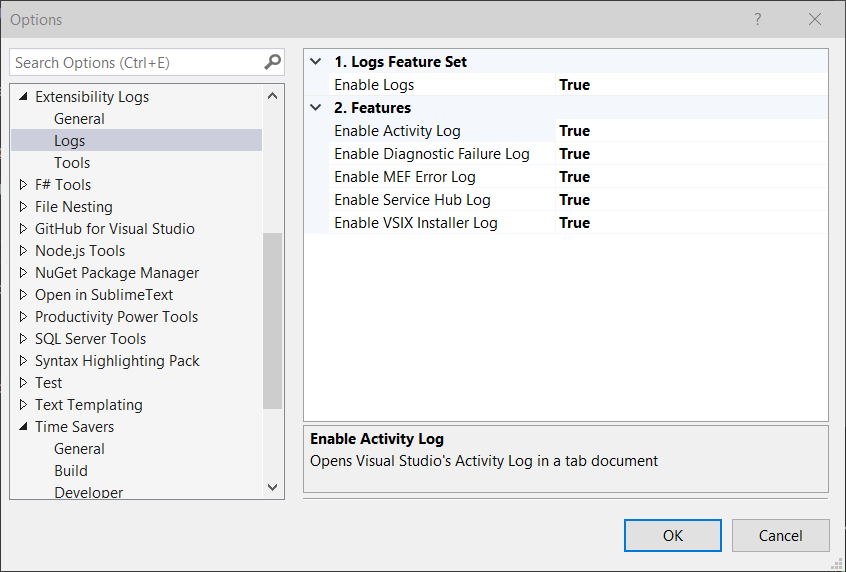
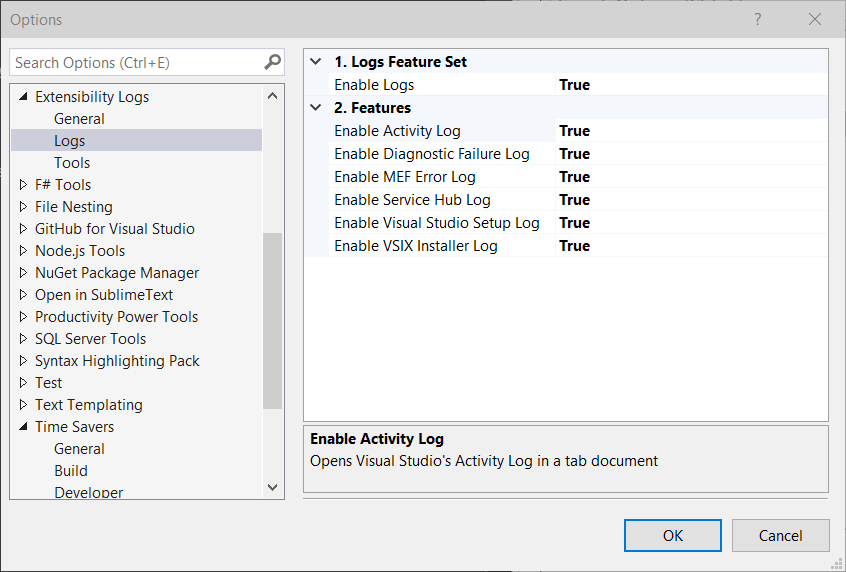
docs(website): generate documentationpages

diff --git a/docs/features/index.html b/docs/features/index.html
@@ -266,6 +266,13 @@
 </li>
         
           <li class="md-nav__item">
+  <a href="#visual-studio-setup-log" title="Visual Studio Setup Log" class="md-nav__link">
+    Visual Studio Setup Log
+  </a>
+  
+</li>
+        
+          <li class="md-nav__item">
   <a href="#vsix-installer-log" title="VSIX Installer Log" class="md-nav__link">
     VSIX Installer Log
   </a>
@@ -378,6 +385,13 @@
           <li class="md-nav__item">
   <a href="#enable-service-hub-log" title="Enable Service Hub Log" class="md-nav__link">
     Enable Service Hub Log
+  </a>
+  
+</li>
+        
+          <li class="md-nav__item">
+  <a href="#enable-visual-studio-setup-log" title="Enable Visual Studio Setup Log" class="md-nav__link">
+    Enable Visual Studio Setup Log
   </a>
   
 </li>
@@ -535,6 +549,13 @@
 </li>
         
           <li class="md-nav__item">
+  <a href="#visual-studio-setup-log" title="Visual Studio Setup Log" class="md-nav__link">
+    Visual Studio Setup Log
+  </a>
+  
+</li>
+        
+          <li class="md-nav__item">
   <a href="#vsix-installer-log" title="VSIX Installer Log" class="md-nav__link">
     VSIX Installer Log
   </a>
@@ -652,6 +673,13 @@
 </li>
         
           <li class="md-nav__item">
+  <a href="#enable-visual-studio-setup-log" title="Enable Visual Studio Setup Log" class="md-nav__link">
+    Enable Visual Studio Setup Log
+  </a>
+  
+</li>
+        
+          <li class="md-nav__item">
   <a href="#enable-vsix-installer-log" title="Enable VSIX Installer Log" class="md-nav__link">
     Enable VSIX Installer Log
   </a>
@@ -755,14 +783,22 @@ and then open it in your editor of choice.</p>
 </ul>
 <h3 id="service-hub-log">Service Hub Log<a class="headerlink" href="#service-hub-log" title="Permanent link">&para;</a></h3>
 <p>Opens the latest <em>Service Hub Log</em> in a tab in Visual Studio,
-without knowing how to find it first, 
+without first knowing how to it first, 
 and then open it in your editor of choice.</p>
 <ul>
 <li><strong>Folder:</strong> %TEMP%\servicehub\logs </li>
 <li><strong>Files:</strong> VsixServiceDiscovery-*.log</li>
 </ul>
+<h3 id="visual-studio-setup-log">Visual Studio Setup Log<a class="headerlink" href="#visual-studio-setup-log" title="Permanent link">&para;</a></h3>
+<p>Opens the latest <em>Visual Studio Setup Log</em> in a tab in Visual Studio, scrambling to find it,
+and then open it in your editor of choice.</p>
+<ul>
+<li><strong>Folder:</strong> %TEMP%</li>
+<li><strong>Files:</strong> dd_setup_*.log</li>
+</ul>
 <h3 id="vsix-installer-log">VSIX Installer Log<a class="headerlink" href="#vsix-installer-log" title="Permanent link">&para;</a></h3>
-<p>Opens the latest <em>VSIX Installer Log</em> in a tab in Visual Studio, scrambling to find it,
+<p>Opens the latest <em>VSIX Installer Log</em> in a tab in Visual Studio, 
+without knowing what the file's called and how to find it, 
 and then open it in your editor of choice.</p>
 <ul>
 <li><strong>Folder:</strong> %TEMP%</li>
@@ -804,10 +840,13 @@ to <code>false</code>.</p>
 <p>The <em>MEF Error Log</em> feature can be disabled by setting <em>Tools | Options | Extensibility Logs | Enable MEF Error Log</em>
 to <code>false</code>.</p>
 <h4 id="enable-service-hub-log">Enable Service Hub Log<a class="headerlink" href="#enable-service-hub-log" title="Permanent link">&para;</a></h4>
-<p>The <em>MEF Error Log</em> feature can be disabled by setting <em>Tools | Options | Extensibility Logs | Enable MEF Error Log</em>
+<p>The <em>MEF Error Log</em> feature can be disabled by setting <em>Tools | Options | Extensibility Logs | Enable Service Hub Log</em>
+to <code>false</code>.</p>
+<h4 id="enable-visual-studio-setup-log">Enable Visual Studio Setup Log<a class="headerlink" href="#enable-visual-studio-setup-log" title="Permanent link">&para;</a></h4>
+<p>The <em>Visual Studio Setup Log</em> feature can be disabled by setting <em>Tools | Options | Extensibility Logs | Enable Visual Studio Setup Log</em>
 to <code>false</code>.</p>
 <h4 id="enable-vsix-installer-log">Enable VSIX Installer Log<a class="headerlink" href="#enable-vsix-installer-log" title="Permanent link">&para;</a></h4>
-<p>The <em>VSIX Installer Log</em> feature can be disabled by setting <em>Tools | Options | Extensibility Logs | Enable MEF Error Log</em>
+<p>The <em>VSIX Installer Log</em> feature can be disabled by setting <em>Tools | Options | Extensibility Logs | Enable VSIX Installer Log</em>
 to <code>false</code>.</p>
 <h3 id="tools-options">Tools Options<a class="headerlink" href="#tools-options" title="Permanent link">&para;</a></h3>
 <p><img alt="Options" src="../assets/images/tools-options.png" /></p>

diff --git a/docs/changelog/index.html b/docs/changelog/index.html
@@ -236,8 +236,15 @@
       <ul class="md-nav__list">
         
           <li class="md-nav__item">
-  <a href="#v13-2019-04-13" title="v1.3 - 2019-04-13" class="md-nav__link">
-    v1.3 - 2019-04-13
+  <a href="#v15-2019-04-" title="v1.5 - 2019-04-??" class="md-nav__link">
+    v1.5 - 2019-04-??
+  </a>
+  
+</li>
+        
+          <li class="md-nav__item">
+  <a href="#v14-2019-04-13" title="v1.4 - 2019-04-13" class="md-nav__link">
+    v1.4 - 2019-04-13
   </a>
   
 </li>
@@ -378,8 +385,15 @@
       <ul class="md-nav__list">
         
           <li class="md-nav__item">
-  <a href="#v13-2019-04-13" title="v1.3 - 2019-04-13" class="md-nav__link">
-    v1.3 - 2019-04-13
+  <a href="#v15-2019-04-" title="v1.5 - 2019-04-??" class="md-nav__link">
+    v1.5 - 2019-04-??
+  </a>
+  
+</li>
+        
+          <li class="md-nav__item">
+  <a href="#v14-2019-04-13" title="v1.4 - 2019-04-13" class="md-nav__link">
+    v1.4 - 2019-04-13
   </a>
   
 </li>
@@ -490,7 +504,11 @@
                   <h1>Changelog</h1>
                 
                 <h2 id="public-releases">Public Releases<a class="headerlink" href="#public-releases" title="Permanent link">&para;</a></h2>
-<h3 id="v13-2019-04-13">v1.3 - 2019-04-13<a class="headerlink" href="#v13-2019-04-13" title="Permanent link">&para;</a></h3>
+<h3 id="v15-2019-04-">v1.5 - 2019-04-??<a class="headerlink" href="#v15-2019-04-" title="Permanent link">&para;</a></h3>
+<ul>
+<li>added 'Visual Studio Setup Log'</li>
+</ul>
+<h3 id="v14-2019-04-13">v1.4 - 2019-04-13<a class="headerlink" href="#v14-2019-04-13" title="Permanent link">&para;</a></h3>
 <ul>
 <li>added 'Service Hub Log'</li>
 <li>added 'Environment Variables'</li>
@@ -542,7 +560,7 @@
 <h3 id="v01-2019-02-03">v0.1 - 2019-02-03<a class="headerlink" href="#v01-2019-02-03" title="Permanent link">&para;</a></h3>
 <ul>
 <li>initial <code>master</code> branch on GitHub</li>
-<li>added 'Extensibility Logs' toolbar</li>
+<li>added 'Extensibility Logs' toolbar </li>
 </ul>
                 
                   

diff --git a/docs/roadmap/index.html b/docs/roadmap/index.html
@@ -337,7 +337,7 @@ These might be entirely <strong>new features</strong> or <strong>enhancements</s
 <li class="task-list-item"><label class="task-list-control"><input type="checkbox" disabled checked/><span class="task-list-indicator"></span></label> MEF Error Log</li>
 <li class="task-list-item"><label class="task-list-control"><input type="checkbox" disabled checked/><span class="task-list-indicator"></span></label> Service Hub Log</li>
 <li class="task-list-item"><label class="task-list-control"><input type="checkbox" disabled checked/><span class="task-list-indicator"></span></label> Environment Variables</li>
-<li class="task-list-item"><label class="task-list-control"><input type="checkbox" disabled/><span class="task-list-indicator"></span></label> Visual Studio Setup Log?</li>
+<li class="task-list-item"><label class="task-list-control"><input type="checkbox" disabled checked/><span class="task-list-indicator"></span></label> Visual Studio Setup Log?</li>
 <li class="task-list-item"><label class="task-list-control"><input type="checkbox" disabled/><span class="task-list-indicator"></span></label> Enable/Disable VSIP Logging?</li>
 <li class="task-list-item"><label class="task-list-control"><input type="checkbox" disabled/><span class="task-list-indicator"></span></label> Enhance Path Variables?</li>
 </ul>
